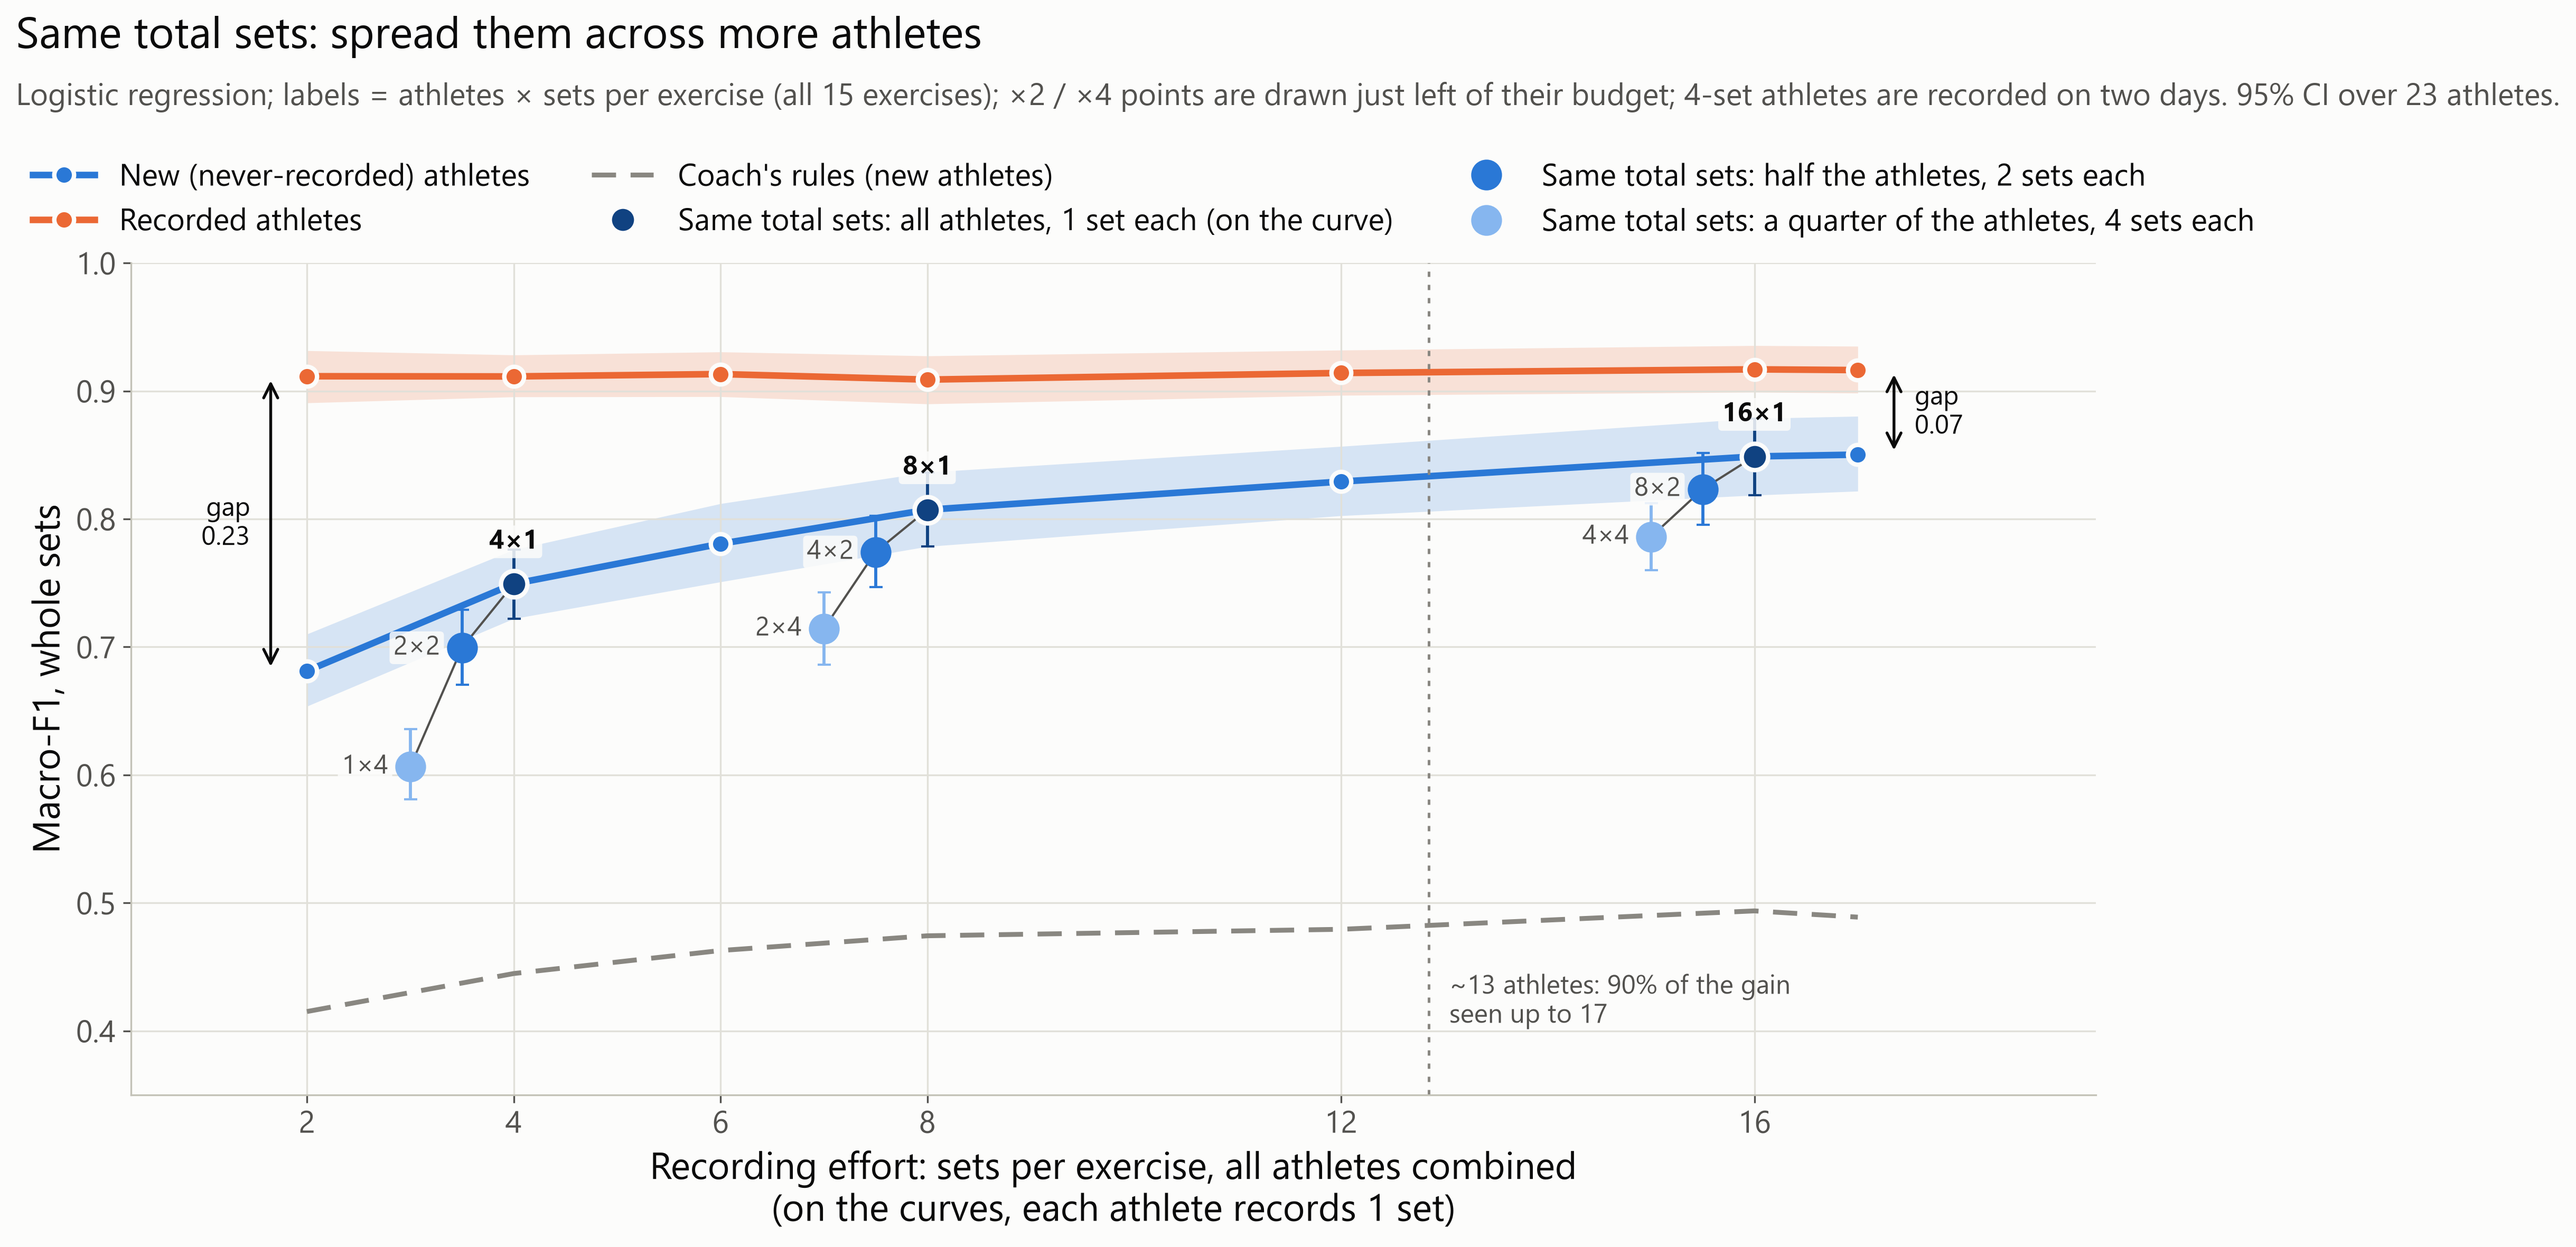
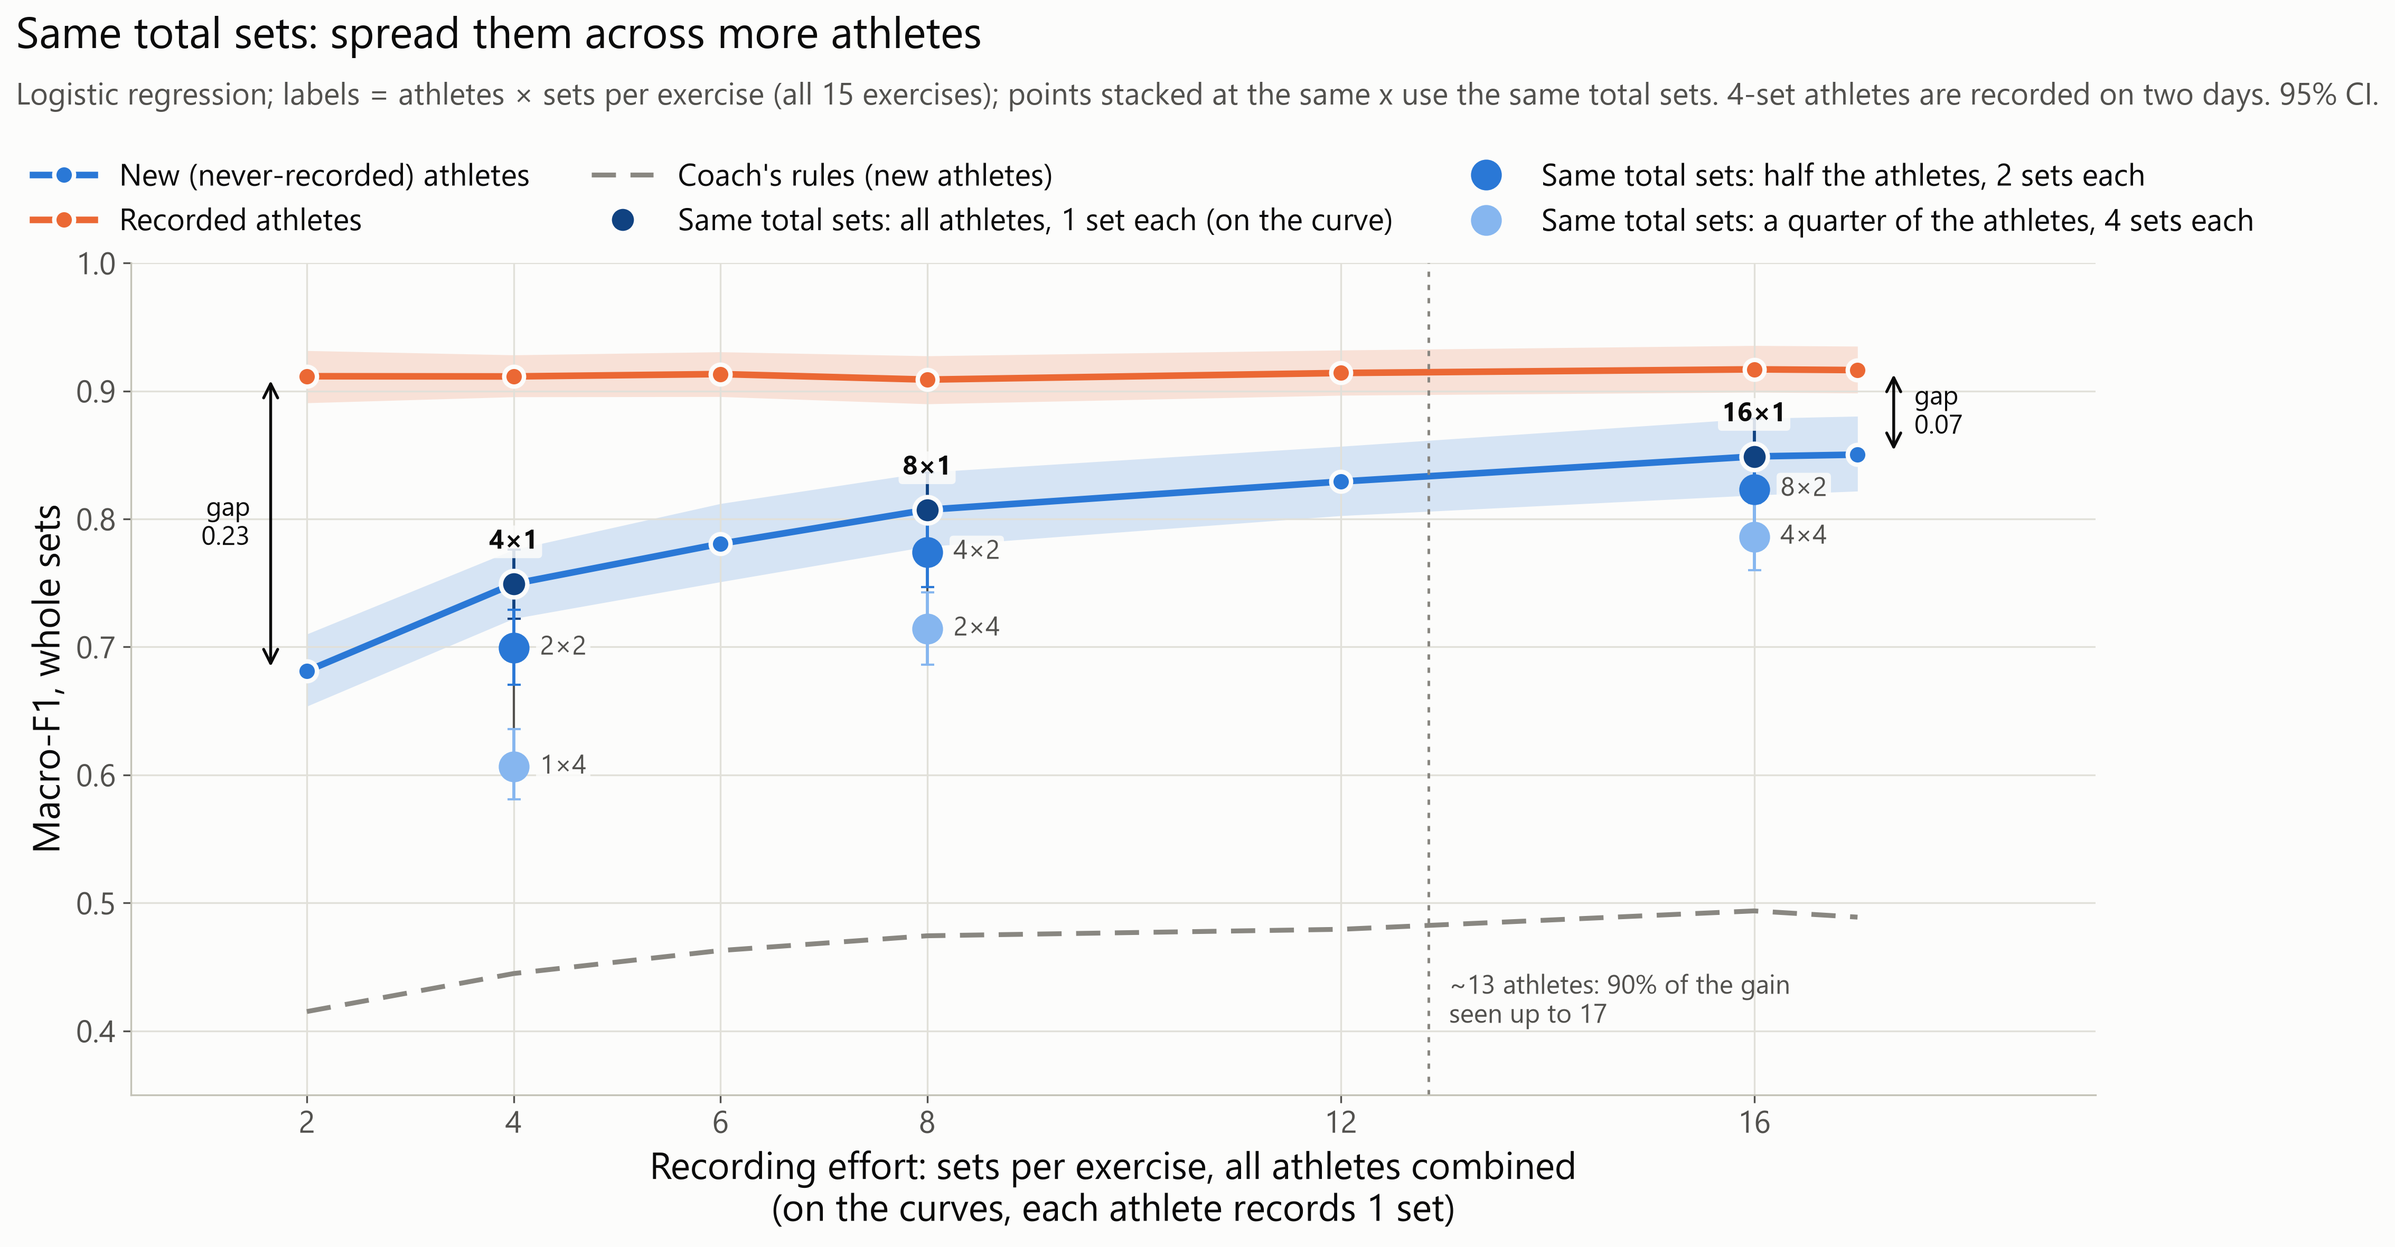
Hero figure: stack same-budget splits at the same x

diff --git a/steps/14_figures.py b/steps/14_figures.py
@@ -115,7 +115,7 @@ def fig1_hero(model="logreg"):
             gd = g[g.depth == depth]
             n = int(gd.n_team.iloc[0])
             mm, lo, hi = bootstrap_ci(gd.groupby("athlete").macro_f1.mean().to_numpy())
-            x = budget - {1: 0.0, 2: 0.5, 4: 1.0}[depth]  # x2 / x4 placed to the left, below the curve
+            x = budget  # same total sets -> same x
             pts.append((x, mm))
             col = split_style[depth][0]
             ax.errorbar(x, mm, yerr=[[mm - lo], [hi - mm]], color=col, lw=1.4, capsize=3, zorder=4)
@@ -125,8 +125,8 @@ def fig1_hero(model="logreg"):
                 ax.annotate(f"{n}×1", (x, mm), xytext=(0, 16), textcoords="offset points", fontsize=12, color=INK,
                             ha="center", fontweight="bold", bbox=box, zorder=7)
             else:
-                ax.annotate(f"{n}×{depth}", (x, mm), xytext=(-10, 0), textcoords="offset points", fontsize=12,
-                            color=INK2, ha="right", va="center", bbox=box, zorder=7)
+                ax.annotate(f"{n}×{depth}", (x, mm), xytext=(12, 0), textcoords="offset points", fontsize=12,
+                            color=INK2, ha="left", va="center", bbox=box, zorder=7)
         ax.plot([p[0] for p in pts], [p[1] for p in pts], color=INK2, lw=1, zorder=3)
     # gap labels at both ends (left of the first point, right of the last)
     for x, side in ((new.n_team.iloc[0], -1), (new.n_team.iloc[-1], 1)):
@@ -146,8 +146,8 @@ def fig1_hero(model="logreg"):
     h, l = ax.get_legend_handles_labels()
     order = [2, 1, 0, 3, 4, 5]
     top = header(fig, "Same total sets: spread them across more athletes",
-                 f"{MODEL_NAME[model]}; labels = athletes × sets per exercise (all 15 exercises); ×2 / ×4 points are drawn "
-                 "just left of their budget; 4-set athletes are recorded on two days. 95% CI over 23 athletes.",
+                 f"{MODEL_NAME[model]}; labels = athletes × sets per exercise (all 15 exercises); "
+                 "points stacked at the same x use the same total sets. 4-set athletes are recorded on two days. 95% CI.",
                  [h[i] for i in order], [l[i] for i in order], ncol=3)
     fig.tight_layout(rect=(0, 0, 1, top))
     save(fig, f"fig1_hero_{model}")
